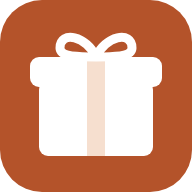
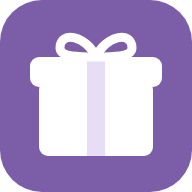
Palette « Mauve argenté »
- En-tête et bandeaux aubergine grisé (#4A3657), boutons mauve (#7B5EA7),
  touches argentées (#CFCFDC), fond blanc argenté (#F6F5F9)
- Zones d'événement de l'accueil : aubergine, gris argenté, mauve
- Icône, theme-color et manifeste assortis

Claude-Session: https://claude.ai/code/session_01TBAG7L9Q4kbcYh63GcMJBF

diff --git a/src/app/globals.css b/src/app/globals.css
@@ -18,21 +18,21 @@
   --font-sans: var(--font-nunito), ui-sans-serif, system-ui, sans-serif;
 }
 
-/* Thème « Sapin & cuivre » : vert sapin, cuivre et touches dorées sur fond crème */
+/* Thème « Mauve argenté » : aubergine grisé, boutons mauve, touches argentées */
 :root {
-  --brand-50: #fbf1ea;
-  --brand-100: #f6dfcf;
-  --brand-200: #ecc0a1;
-  --brand-500: #d06a36;
-  --brand-600: #b4532a;
-  --brand-700: #8f3f1f;
-  --band: #173f2f;
-  --band-ink: #fdf8ec;
-  --accent: #e9c46a;
-  --ink: #1b1f1a;
-  --muted: #555248;
-  --line: #ddd6c8;
-  --paper: #f7f4ec;
+  --brand-50: #f3effa;
+  --brand-100: #e7def5;
+  --brand-200: #d2c3ec;
+  --brand-500: #9479c4;
+  --brand-600: #7b5ea7;
+  --brand-700: #5f4787;
+  --band: #4a3657;
+  --band-ink: #f4f2f8;
+  --accent: #cfcfdc;
+  --ink: #1e1b24;
+  --muted: #5b5866;
+  --line: #d9d6e2;
+  --paper: #f6f5f9;
 }
 
 html {

diff --git a/src/app/(app)/page.tsx b/src/app/(app)/page.tsx
@@ -262,6 +262,6 @@ export default async function HomePage({ searchParams }: PageProps<"/">) {
 /** Teintes alternées des zones d'événement sur l'accueil. */
 const ZONES = [
   { zone: "bg-band/[0.05] border-band", band: "band", accent: "text-accent", chip: "band" },
-  { zone: "bg-red-50/70 border-[#7f1d1d]", band: "bg-[#7f1d1d] text-white", accent: "text-amber-200", chip: "bg-[#7f1d1d] text-white" },
-  { zone: "bg-sky-50/70 border-[#1e3a5f]", band: "bg-[#1e3a5f] text-white", accent: "text-amber-200", chip: "bg-[#1e3a5f] text-white" },
+  { zone: "bg-[#6e6a7d]/[0.07] border-[#6e6a7d]", band: "bg-[#6e6a7d] text-white", accent: "text-[#e4e4ee]", chip: "bg-[#6e6a7d] text-white" },
+  { zone: "bg-[#8a6f9e]/[0.07] border-[#8a6f9e]", band: "bg-[#8a6f9e] text-white", accent: "text-[#f1ecf6]", chip: "bg-[#8a6f9e] text-white" },
 ];

diff --git a/src/app/manifest.ts b/src/app/manifest.ts
@@ -7,8 +7,8 @@ export default function manifest(): MetadataRoute.Manifest {
     description: "Les idées cadeaux de la famille, sans gâcher la surprise.",
     start_url: "/",
     display: "standalone",
-    background_color: "#f7f4ec",
-    theme_color: "#173f2f",
+    background_color: "#f6f5f9",
+    theme_color: "#4a3657",
     lang: "fr",
     icons: [
       { src: "/icon.svg", sizes: "any", type: "image/svg+xml" },

diff --git a/src/app/layout.tsx b/src/app/layout.tsx
@@ -11,7 +11,7 @@ export const metadata: Metadata = {
 };
 
 export const viewport: Viewport = {
-  themeColor: "#173f2f",
+  themeColor: "#4a3657",
   width: "device-width",
   initialScale: 1,
 };
